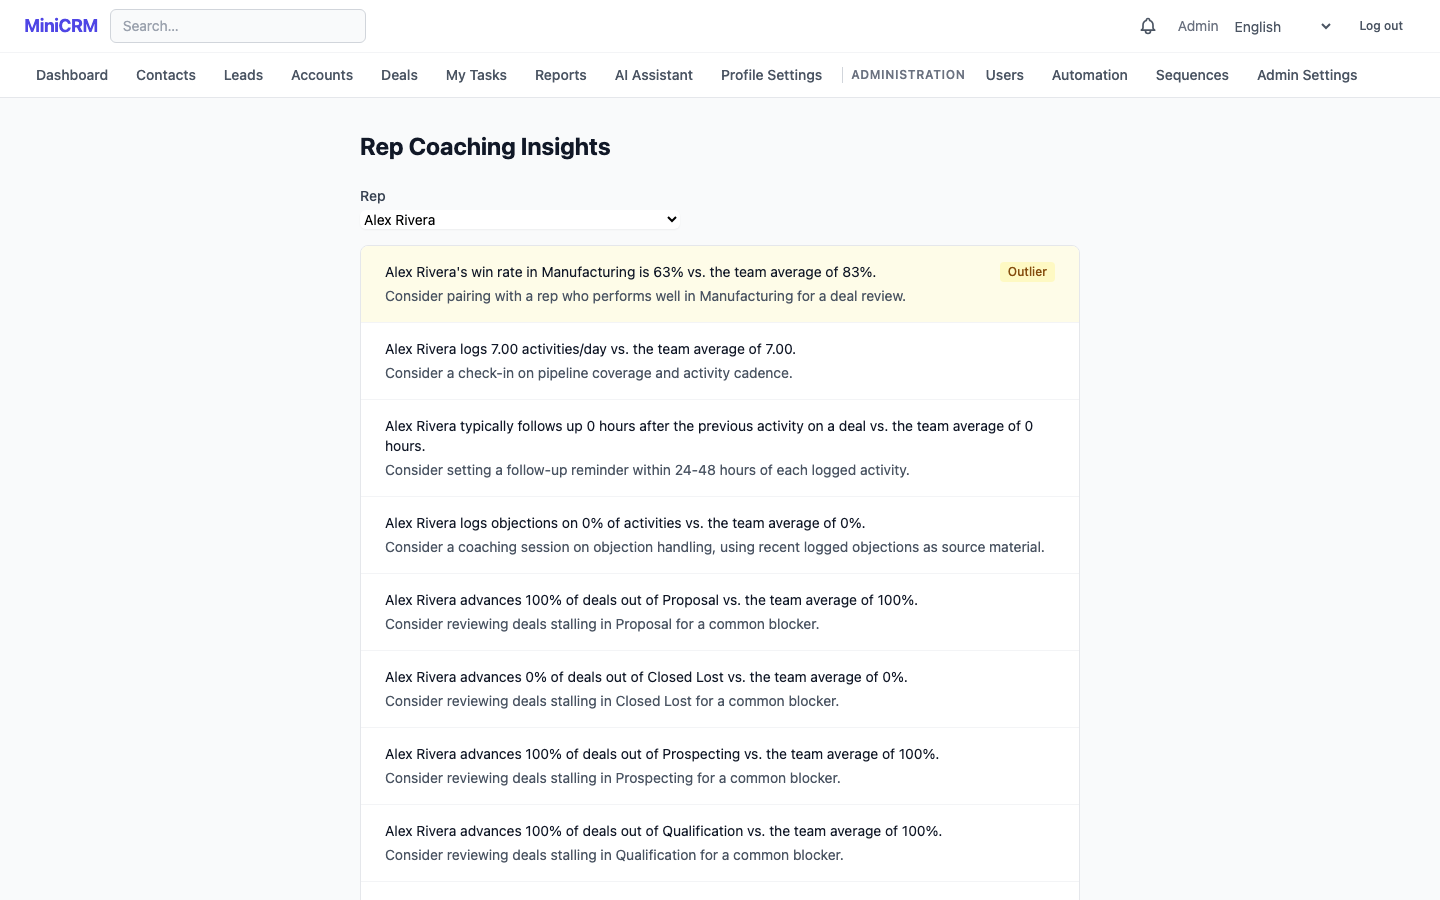
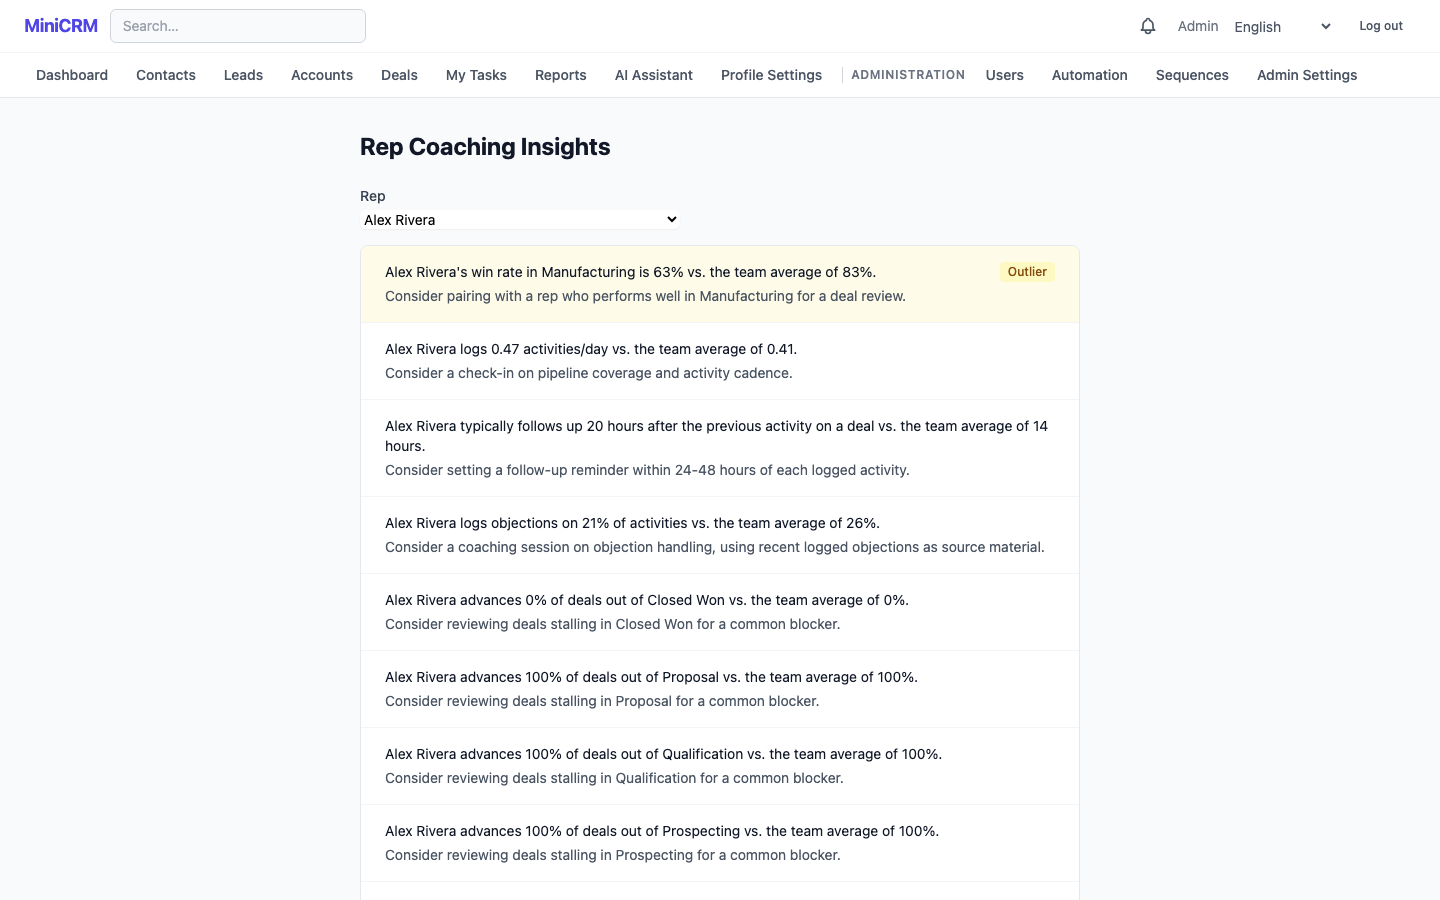
fix(hygiene): index the finding cleanup path and cover its call sites (MINCRM-723, MINCRM-724)
Branch review found the delete-path cleanup shipped without an index. Clearing a
record's findings matches on `entity_id OR related_entity_id`, and only `(owner_id)`
and `(entity_type, entity_id)` were indexed — so the OR arm forced a sequential scan on
all eight call sites, including the bulk paths that delete up to 500 records at a time.
`EXPLAIN` confirmed the seq scan before, and a BitmapOr across both indexes after.
Partial, since the column is populated only for duplicate findings.

Six of those call sites had no test: both bulk services, the merge loser, and the
set-based helper's empty-list early return. All covered now, and mutation-tested —
removing the legacy bulk cleanup fails its test.

The reserved-domain fix had only an integration assertion behind it. It now has the
unit cases the mail path already had, including the one that matters: a domain merely
containing a reserved name is still probed, so a future change cannot start skipping
`notexample.com`. It also returns 'unknown' rather than 'reachable' — nothing was
probed, so nothing is known, and only 'unreachable' is ever acted on.

The coaching screenshot was showing degenerate output — "7.00 vs. the team average of
7.00", "0 hours vs. 0 hours", "0% vs. 0%" — because every seeded rep had the same deal
shape and no activities at all. Three of the four metrics compare against the
activities table. Reps now log activities at per-pace frequencies with differing
[…]

diff --git a/server/src/services/demoService.ts b/server/src/services/demoService.ts
@@ -1511,7 +1511,7 @@ const DEMO_HYGIENE_DEALS = [
  * Owned explicitly rather than appended to DEMO_DEALS, whose ownership is assigned by
  * index and which four other fixture arrays reference positionally.
  */
-const DEMO_COACHING_DEAL_COUNT = 12;
+const DEMO_COACHING_MARGIN_DEALS = 2;
 
 /** Loss on every Nth deal counting from the first, cycled per rep so win rates differ. */
 const DEMO_COACHING_LOSS_INTERVALS = [3, 4, 2, 5, 6, 3];
@@ -1531,6 +1531,25 @@ const DEMO_COACHING_CURRENCY = 'USD';
  * apart because that shared dilution shrinks the ratio, and because the slow rep also
  * pulls up the team average it is measured against.
  */
+/**
+ * Activities logged per coaching deal, and the gap between them in hours, per pace band.
+ *
+ * Every non-win-rate coaching metric compares a rep against the team average over the
+ * activities table: frequency per day, hours between consecutive activities on a deal,
+ * and the share whose notes mention an objection. With no activities all three collapse
+ * to "0 vs. a team average of 0", which is what the page then displays.
+ */
+const ONE_HOUR_MS = 60 * 60 * 1000;
+
+const DEMO_COACHING_ACTIVITY_SHAPE: Record<
+  string,
+  { perDeal: number; gapHours: number; objectionEvery: number }
+> = {
+  fast: { perDeal: 4, gapHours: 6, objectionEvery: 3 },
+  typical: { perDeal: 3, gapHours: 20, objectionEvery: 4 },
+  slow: { perDeal: 1, gapHours: 96, objectionEvery: 8 },
+};
+
 const DEMO_COACHING_STAGE_DAYS: Record<string, number[]> = {
   fast: [3, 5, 4],
   typical: [7, 11, 9],
@@ -2516,6 +2535,14 @@ async function insertDemoData(
 
   // deal_stage_history.stage is bare text with no FK, so a renamed stage would be
   // recorded silently rather than failing.
+  // Read from the live config rather than the migration default, so an admin raising the
+  // minimum does not silently retire the fixture — same treatment as the stale-title one.
+  const coachingConfig = await client.query<{ min_closed_deals: number }>(
+    `SELECT min_closed_deals FROM rep_coaching_scoring_config LIMIT 1`,
+  );
+  const coachingDealCount =
+    (coachingConfig.rows[0]?.min_closed_deals ?? 0) + DEMO_COACHING_MARGIN_DEALS;
+
   const coachingStages = ['Prospecting', 'Qualification', 'Proposal'];
   for (const stageName of coachingStages) {
     await assertPipelineStageExists(client, stageName, defaultPipelineId);
@@ -2529,7 +2556,7 @@ async function insertDemoData(
     // Varied per rep so win rate has a spread; a shared ratio makes every win-rate
     // metric identical and no outlier can ever surface.
     const lossEvery = DEMO_COACHING_LOSS_INTERVALS[repIndex % DEMO_COACHING_LOSS_INTERVALS.length];
-    for (let i = 0; i < DEMO_COACHING_DEAL_COUNT; i++) {
+    for (let i = 0; i < coachingDealCount; i++) {
       const won = i % lossEvery !== 0;
       const finalStage = won ? 'Closed Won' : 'Closed Lost';
       const stageId = won ? wonStageId : lostStageId;
@@ -2577,6 +2604,28 @@ async function insertDemoData(
         finalStage,
         new Date(Date.now() - closedDaysAgo * ONE_DAY_MS),
       );
+
+      const shape = DEMO_COACHING_ACTIVITY_SHAPE[rep.pace];
+      for (let n = 0; n < shape.perDeal; n++) {
+        const loggedAt = new Date(
+          Date.now() - closedDaysAgo * ONE_DAY_MS + n * shape.gapHours * ONE_HOUR_MS,
+        );
+        const logsObjection = (i * shape.perDeal + n) % shape.objectionEvery === 0;
+        await client.query(
+          `INSERT INTO activities
+             (type, subject, notes, status, direction, deal_id, owner_id, created_at, is_demo)
+           VALUES ('Call', $1, $2, 'complete', 'Outbound', $3, $4, $5, true)`,
+          [
+            `Check-in ${n + 1} — ${won ? 'Won' : 'Lost'} Renewal ${i + 1}`,
+            logsObjection
+              ? 'Raised a pricing objection; walked through the ROI case.'
+              : 'Reviewed scope and next steps.',
+            dealResult.rows[0].id,
+            rep.id,
+            loggedAt,
+          ],
+        );
+      }
     }
   }
 

diff --git a/server/src/__tests__/dataHygieneService.test.ts b/server/src/__tests__/dataHygieneService.test.ts
@@ -14,7 +14,11 @@ import {
   updateContact,
   findContactById,
   deleteContact,
+  mergeContacts,
 } from '../services/contactService.js';
+import { bulkContacts } from '../services/bulkService.js';
+import { bulkDeleteContacts } from '../services/bulkV2Service.js';
+import { deleteFindingsForDeletedEntities } from '../services/dataHygieneService.js';
 import { createAccount, deleteAccount } from '../services/accountService.js';
 import { createDeal, updateDeal, deleteDeal } from '../services/dealService.js';
 import { createActivity } from '../services/activityService.js';
@@ -710,6 +714,99 @@ describe("hard delete clears the entity's findings", () => {
     );
     expect(after.rowCount).toBe(0);
   });
+});
+
+it('leaves no finding behind after a v2 bulk delete', async () => {
+  const contact = await createContact({
+    first_name: 'Bulk',
+    last_name: 'V2 Doomed',
+    email: '',
+    owner_id: ownerId,
+  });
+  await runDataHygieneScan();
+  expect((await listHygieneFindings(ownerId)).some((f) => f.entity_id === contact.id)).toBe(true);
+
+  await bulkDeleteContacts({ ids: [contact.id] }, { id: ownerId, name: 'Owner', role: 'admin' });
+
+  const rows = await pool.query(`SELECT id FROM data_hygiene_findings WHERE entity_id = $1`, [
+    contact.id,
+  ]);
+  expect(rows.rowCount).toBe(0);
+});
+
+it('leaves no finding behind after a legacy bulk delete', async () => {
+  const contact = await createContact({
+    first_name: 'Bulk',
+    last_name: 'Legacy Doomed',
+    email: '',
+    owner_id: ownerId,
+  });
+  await runDataHygieneScan();
+  expect((await listHygieneFindings(ownerId)).some((f) => f.entity_id === contact.id)).toBe(true);
+
+  // The legacy endpoint deletes the whole set in one statement, so it uses the
+  // set-based helper rather than the per-record one the v2 path calls.
+  await bulkContacts(
+    { action: 'delete', ids: [contact.id] },
+    { id: ownerId, name: 'Owner', role: 'admin' },
+  );
+
+  const rows = await pool.query(`SELECT id FROM data_hygiene_findings WHERE entity_id = $1`, [
+    contact.id,
+  ]);
+  expect(rows.rowCount).toBe(0);
+});
+
+it('leaves no finding behind for the loser of a merge', async () => {
+  const account = await createAccount({ name: `${FILE_PREFIX} Merge Co`, owner_id: ownerId });
+  const winner = await createContact({
+    first_name: 'Merge',
+    last_name: 'Winner',
+    email: `mw-${uid()}@example.com`,
+    account_id: account.id,
+    owner_id: ownerId,
+  });
+  const loser = await createContact({
+    first_name: 'Merge',
+    last_name: 'Loser',
+    email: '',
+    account_id: account.id,
+    owner_id: ownerId,
+  });
+  await runDataHygieneScan();
+  expect((await listHygieneFindings(ownerId)).some((f) => f.entity_id === loser.id)).toBe(true);
+
+  await mergeContacts(
+    { winnerId: winner.id, loserId: loser.id, fieldChoices: {} },
+    { id: ownerId, name: 'Owner' },
+  );
+
+  const rows = await pool.query(`SELECT id FROM data_hygiene_findings WHERE entity_id = $1`, [
+    loser.id,
+  ]);
+  expect(rows.rowCount).toBe(0);
+});
+
+it('is a no-op on an empty id list rather than deleting everything', async () => {
+  const contact = await createContact({
+    first_name: 'Untouched',
+    last_name: 'By Empty',
+    email: '',
+    owner_id: ownerId,
+  });
+  await runDataHygieneScan();
+  const before = await pool.query(`SELECT COUNT(*)::int AS n FROM data_hygiene_findings`);
+
+  const client = await pool.connect();
+  try {
+    await deleteFindingsForDeletedEntities(client, 'contact', []);
+  } finally {
+    client.release();
+  }
+
+  const after = await pool.query(`SELECT COUNT(*)::int AS n FROM data_hygiene_findings`);
+  expect(after.rows[0].n).toBe(before.rows[0].n);
+  expect((await listHygieneFindings(ownerId)).some((f) => f.entity_id === contact.id)).toBe(true);
 });
 
 describe('clearFindingsForEntity', () => {

diff --git a/server/src/__tests__/dataHygieneMxLookup.test.ts b/server/src/__tests__/dataHygieneMxLookup.test.ts
@@ -160,6 +160,33 @@ describe('checkWebsiteStatus', () => {
     return err;
   }
 
+  /**
+   * Reserved names cannot resolve by definition, so NXDOMAIN on one proves nothing about
+   * the site. Without this the demo fixtures — every account website is *.example.com —
+   * are reported to users as broken sites. Mirrors the mail path's exemption above.
+   */
+  it.each([
+    'https://example.com',
+    'https://www.acme-demo.example.com',
+    'https://globex-demo.example.com/path',
+    'https://foo.invalid',
+    'https://deep.nested.example.org',
+  ])('skips the reserved domain %s without probing', async (url) => {
+    // 'unknown' rather than 'reachable': nothing was probed, so nothing is known.
+    await expect(checkWebsiteStatus(url)).resolves.toBe('unknown');
+    expect(fetchMock).not.toHaveBeenCalled();
+  });
+
+  it('still probes a domain that merely contains a reserved name', async () => {
+    fetchMock.mockResolvedValue({ status: 200 });
+    await expect(checkWebsiteStatus('https://notexample.com')).resolves.toBe('reachable');
+    expect(fetchMock).toHaveBeenCalled();
+  });
+
+  it('treats an unparseable URL as unreachable rather than throwing', async () => {
+    await expect(checkWebsiteStatus('not a url')).resolves.toBe('unreachable');
+  });
+
   it('reports a 200 as reachable', async () => {
     fetchMock.mockResolvedValue({ status: 200 });
     await expect(checkWebsiteStatus('https://live.test-site.co')).resolves.toBe('reachable');

diff --git a/db/migrations/168_index_data_hygiene_related_entity.js b/db/migrations/168_index_data_hygiene_related_entity.js
@@ -1,0 +1,31 @@
+'use strict';
+
+/**
+ * Migration 168: index data_hygiene_findings.related_entity_id.
+ *
+ * Hard-deleting a contact, account, or deal now clears the findings that point at it,
+ * matching on entity_id OR related_entity_id so a duplicate finding held by the
+ * counterpart contact cannot outlive the record it names. Only (owner_id) and
+ * (entity_type, entity_id) were indexed, so that OR arm forced a sequential scan on
+ * every delete — including the bulk paths, which delete up to 500 records per call.
+ *
+ * Partial, because the column is populated only for contact_duplicate findings: the
+ * index stays small and the planner still uses it for the equality lookups above.
+ */
+
+/** @type {import('node-pg-migrate').ColumnDefinitions | undefined} */
+exports.shorthands = undefined;
+
+/** @param {import('node-pg-migrate').MigrationBuilder} pgm */
+exports.up = (pgm) => {
+  pgm.sql(`
+    CREATE INDEX IF NOT EXISTS data_hygiene_findings_related_entity_idx
+      ON public.data_hygiene_findings (related_entity_id)
+      WHERE related_entity_id IS NOT NULL
+  `);
+};
+
+/** @param {import('node-pg-migrate').MigrationBuilder} pgm */
+exports.down = (pgm) => {
+  pgm.sql(`DROP INDEX IF EXISTS public.data_hygiene_findings_related_entity_idx`);
+};

diff --git a/server/src/services/dataHygieneService.ts b/server/src/services/dataHygieneService.ts
@@ -358,7 +358,9 @@ export async function checkWebsiteStatus(url: string): Promise<WebsiteStatus> {
   // broken — the same false positive isReservedDomain already prevents for mail.
   try {
     const hostname = new URL(url).hostname.toLowerCase();
-    if (isReservedDomain(hostname)) return 'reachable';
+    // 'unknown', not 'reachable': the name was never probed, and only 'unreachable' is
+    // ever reported, so an unprobed site must not assert it is alive.
+    if (isReservedDomain(hostname)) return 'unknown';
   } catch {
     // A URL the parser rejects is handled below, where invalid_url is already classified.
   }

diff --git a/client/src/components/NavHeader.tsx b/client/src/components/NavHeader.tsx
@@ -72,16 +72,7 @@ export default function NavHeader({ hamburger }: NavHeaderProps) {
     },
   });
 
-  const { save: saveLanguage } = useLanguagePreference({ optimistic: true });
-
-  /**
-   * Handles language selection.
-   *
-   * @param locale - The selected locale code.
-   */
-  function handleLanguageChange(locale: SupportedLocale): void {
-    saveLanguage(locale);
-  }
+  const { save: handleLanguageChange } = useLanguagePreference({ optimistic: true });
 
   // Destructure hamburger props so the linter doesn't flag plain value accesses
   // as "ref access during render" due to the co-located toggleEl RefObject.

diff --git a/docs/user-guide/deals.md b/docs/user-guide/deals.md
@@ -134,6 +134,7 @@ report's loss-reason breakdown, and can help identify patterns across lost deals
 
 The detail page sidebar carries a **Change History** panel listing who changed what and
 when, newest first — see [Contacts](contacts.md#change-history) for how it behaves.
+Merges are contacts-only, so that entry never appears here.
 
 ### AI Deal Health Check
 

diff --git a/docs/user-guide/accounts.md b/docs/user-guide/accounts.md
@@ -188,6 +188,7 @@ every account that needs a check-in.
 
 The detail page sidebar carries a **Change History** panel listing who changed what and
 when, newest first — see [Contacts](contacts.md#change-history) for how it behaves.
+Merges are contacts-only, so that entry never appears here.
 
 ### Notifications
 
